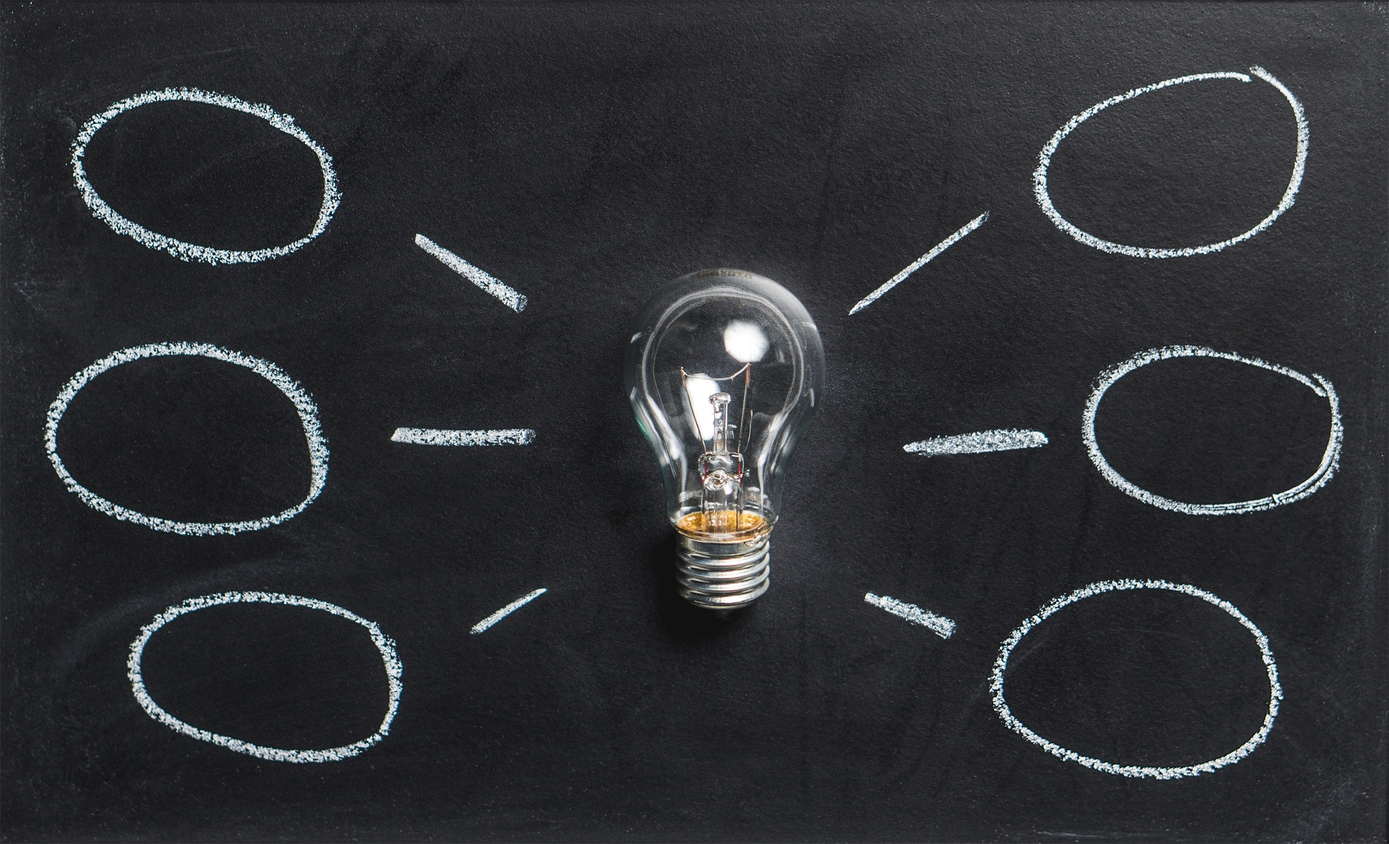
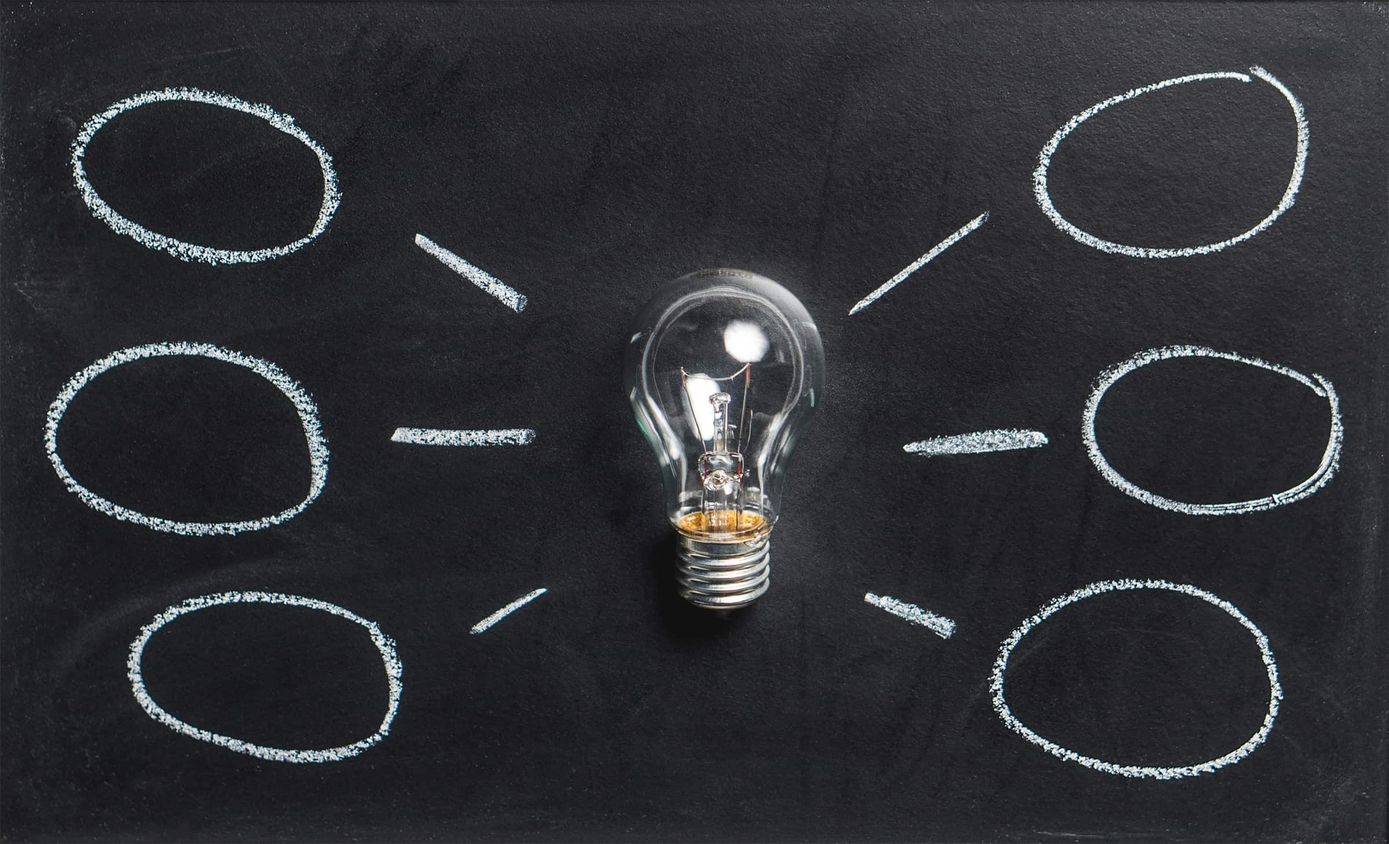
reduced picture size

Changed region(s): [[0.125, 0.2776, 0.1562, 0.3084]]

diff --git a/templates/home/index.html b/templates/home/index.html
@@ -82,7 +82,7 @@
       </div>
       <div class="banner-image">
         <div class="banner-holder">
-          <img src="{% static 'image/bg-banner.png' %}" class="banner-img-main" />
+          <img src="{% static 'image/bg-banner.jpg' %}" class="banner-img-main" />
         </div>
       </div>
     </div>
@@ -233,7 +233,7 @@
         </div>
 
         <div class="how-we-work-img">
-          <img src="{% static 'image/approach.png' %}" alt="alt" class="how-middle-img">
+          <img src="{% static 'image/approach.jpg' %}" alt="alt" class="how-middle-img">
         </div>
 
         <div class="how-we-work-content">
